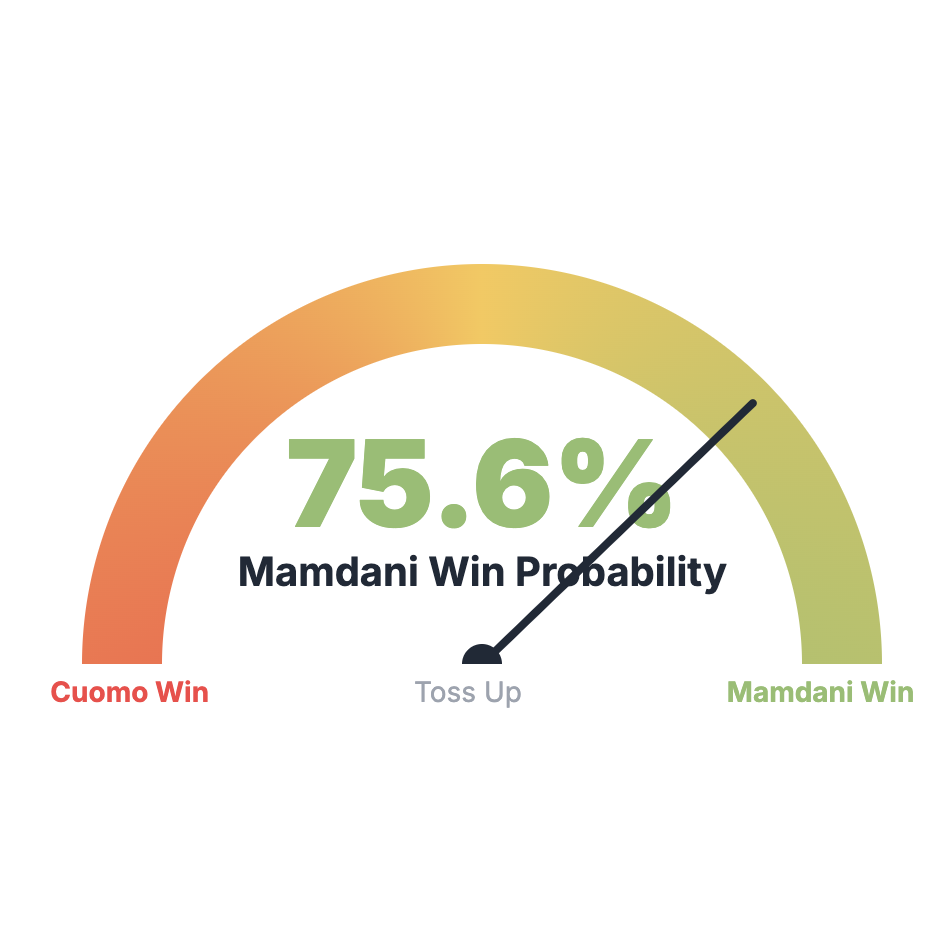
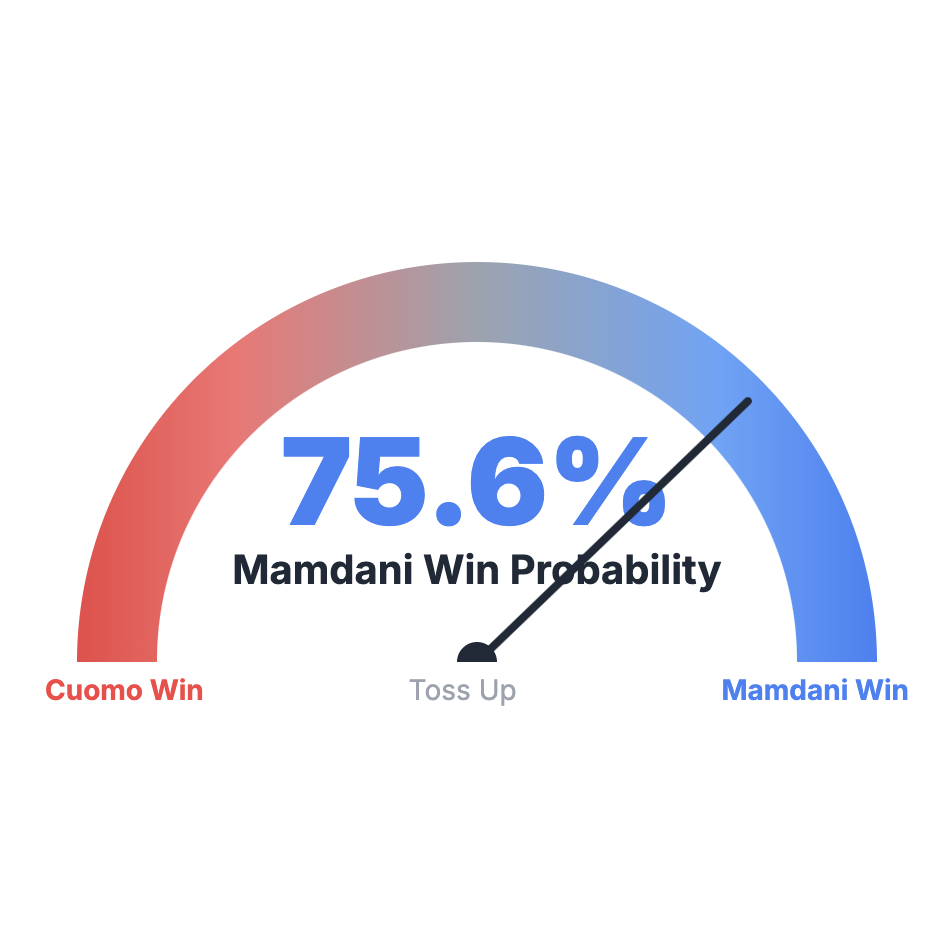
Fix colors

Changed region(s): [[0.0305, 0.2747, 0.9768, 0.7632]]

diff --git a/index.html b/index.html
@@ -93,7 +93,7 @@
             max-height: 350px;
         }
         .gradient-text {
-            background: linear-gradient(to right, #F94144, #F3722C);
+            background: linear-gradient(to right, #2563eb, #3b82f6, #60a5fa);
             -webkit-background-clip: text;
             -webkit-text-fill-color: transparent;
             background-clip: text;
@@ -116,7 +116,7 @@
         .gauge-inner {
             width: 100%;
             height: 100%;
-            background: conic-gradient(from 180deg, #F94144 0%, #F9C74F 50%, #90BE6D 100%);
+            background: linear-gradient(to right, #ef4444 0%, #f87171 20%, #9ca3af 50%, #60a5fa 80%, #3b82f6 100%);
         }
         .gauge-cover {
             width: 320px;
@@ -190,7 +190,7 @@
                     <div class="gauge mx-auto">
                         <div class="gauge-inner"></div>
                         <div class="gauge-cover" style="background-color: #ffffff;">
-                            <p class="text-6xl font-black text-[#90BE6D] pt-10">75.6%</p>
+                            <p class="text-6xl font-black text-[#3b82f6] pt-10">75.6%</p>
                             <p class="text-xl font-bold text-gray-800">Mamdani Win Probability</p>
                         </div>
                         <div id="gauge-needle" class="gauge-needle"></div>
@@ -199,13 +199,13 @@
                     <div class="w-full max-w-lg flex justify-between px-2 text-sm text-gray-500 mt-1">
                         <span class="text-left text-[#F94144] font-bold">Cuomo Win</span>
                         <span class="text-gray-400">Toss Up</span>
-                        <span class="text-right text-[#90BE6D] font-bold">Mamdani Win</span>
+                        <span class="text-right text-[#3b82f6] font-bold">Mamdani Win</span>
                     </div>
                 </div>
 
                 <div class="text-center md:text-left">
                     <h3 class="text-2xl font-bold mb-4">Projected Result</h3>
-                    <p class="text-xl font-bold">Final Vote Share: <span class="text-green-600">Mamdani 52.4%</span> vs <span class="text-red-600">Cuomo 47.6%</span></p>
+                    <p class="text-xl font-bold">Final Vote Share: <span class="text-blue-600">Mamdani 52.4%</span> vs <span class="text-red-600">Cuomo 47.6%</span></p>
                     <p class="text-md text-gray-600 mt-2">Projected Victory Margin: <span class="font-bold text-gray-800">4.9% (~39,619 votes)</span></p>
                     <hr class="my-4">
                     <p class="text-md text-gray-600">95% Confidence Interval:</p>
@@ -223,19 +223,19 @@
                 <div class="grid grid-cols-1 md:grid-cols-2 lg:grid-cols-2 gap-6 mt-6">
 
                     <!-- Early Vote & Youth Surge -->
-                    <div class="bg-green-50 p-6 rounded-xl border border-green-200 flex flex-col">
+                    <div class="bg-blue-50 p-6 rounded-xl border border-blue-200 flex flex-col">
                         <div class="flex items-center mb-3">
                             <div class="text-4xl mr-4">🗳</div>
-                            <h3 class="font-bold text-xl text-green-800">Early Vote & Youth Surge</h3>
+                            <h3 class="font-bold text-xl text-blue-800">Early Vote & Youth Surge</h3>
                         </div>
-                        <p class="text-green-700 mb-4">Mamdani banked a formidable lead in early voting, supercharged by an unprecedented youth turnout.</p>
+                        <p class="text-blue-700 mb-4">Mamdani banked a formidable lead in early voting, supercharged by an unprecedented youth turnout.</p>
                         <div class="text-center bg-white p-4 rounded-lg flex-grow flex flex-col justify-center">
-                            <p class="text-5xl font-extrabold text-green-600">+39,796</p>
+                            <p class="text-5xl font-extrabold text-blue-600">+39,796</p>
                             <p class="font-semibold text-gray-700">Mamdani's Net Vote Advantage</p>
                             <p class="text-sm text-gray-500 mt-2">from 385,327 total early votes</p>
                         </div>
                         <div class="text-center bg-white p-4 rounded-lg mt-3 flex-grow flex flex-col justify-center">
-                            <p class="text-5xl font-extrabold text-green-600">2.9x</p>
+                            <p class="text-5xl font-extrabold text-blue-600">2.9x</p>
                             <p class="font-semibold text-gray-700">Youth Vote vs. Historical Rate</p>
                             <p class="text-sm text-gray-500 mt-2">A key indicator of grassroots enthusiasm</p>
                         </div>
@@ -315,7 +315,7 @@
                             <div class="flex items-center">
                                 <span class="font-bold w-24">Mamdani</span>
                                 <div class="w-full candidate-bar h-5">
-                                    <div class="bg-[#90BE6D] candidate-bar-fill" style="width: 35.6%;">35.6%</div>
+                                    <div class="bg-[#3b82f6] candidate-bar-fill" style="width: 35.6%;">35.6%</div>
                                 </div>
                                 <span class="text-right w-24 font-semibold text-sm">289,876</span>
                             </div>
@@ -357,14 +357,14 @@
                                 <p class="text-sm text-gray-600">Her votes redistribute</p>
                                 <div class="mt-2 text-left space-y-1 text-sm">
                                     <p><span class="font-bold text-[#F94144]">+29,313 votes</span> → Cuomo</p>
-                                    <p><span class="font-bold text-[#90BE6D]">+22,799 votes</span> → Mamdani</p>
+                                    <p><span class="font-bold text-[#3b82f6]">+22,799 votes</span> → Mamdani</p>
                                 </div>
                             </div>
                              <div>
                                 <h4 class="font-semibold">❌ Others Eliminated</h4>
                                 <p class="text-sm text-gray-600">Minor candidates drop out</p>
                                 <div class="mt-2 text-left space-y-1 text-sm">
-                                    <p><span class="font-bold text-[#90BE6D]">+48,855 votes</span> → Mamdani</p>
+                                    <p><span class="font-bold text-[#3b82f6]">+48,855 votes</span> → Mamdani</p>
                                     <p><span class="font-bold text-[#F94144]">+24,427 votes</span> → Cuomo</p>
                                 </div>
                             </div>
@@ -382,14 +382,14 @@
                     <div class="flow-arrow">↓</div>
 
                     <!-- Final Round -->
-                    <div class="w-full max-w-3xl bg-green-50 p-6 rounded-2xl border-2 border-green-300 shadow-lg">
-                        <h3 class="font-bold text-xl text-center mb-2 text-green-800">Final Round: The Progressive Transfer</h3>
+                    <div class="w-full max-w-3xl bg-blue-50 p-6 rounded-2xl border-2 border-blue-300 shadow-lg">
+                        <h3 class="font-bold text-xl text-center mb-2 text-blue-800">Final Round: The Progressive Transfer</h3>
                         <p class="text-center text-gray-600 mb-6">❌ Lander is eliminated. The cross-endorsement becomes decisive, with 75% of his voters ranking Mamdani second.</p>
                         
                         <div class="bg-white p-4 rounded-lg text-center mb-6">
                             <p class="font-bold text-yellow-800">Lander's 97,710 Votes Redistribute:</p>
                             <div class="flex justify-center items-center space-x-6 mt-2">
-                                <div class="text-green-700">
+                                <div class="text-blue-700">
                                     <p class="font-black text-3xl">73,283</p>
                                     <p class="font-semibold text-sm">(75%) → Mamdani</p>
                                 </div>
@@ -408,9 +408,9 @@
                         <div class="grid grid-cols-1 md:grid-cols-2 gap-6">
                              <div class="text-center">
                                 <p class="font-bold text-2xl">Zohran Mamdani</p>
-                                <p class="text-6xl font-black my-2 text-[#90BE6D]">52.4%</p>
+                                <p class="text-6xl font-black my-2 text-[#3b82f6]">52.4%</p>
                                 <div class="w-full bg-gray-200 rounded-full h-4 my-2">
-                                  <div class="bg-[#90BE6D] h-4 rounded-full" style="width: 52.4%"></div>
+                                  <div class="bg-[#3b82f6] h-4 rounded-full" style="width: 52.4%"></div>
                                 </div>
                                 <p class="font-semibold text-gray-800">484,341 Votes</p>
                             </div>
@@ -452,14 +452,14 @@
                     </div>
                 </div>
                 <div class="bg-white rounded-2xl shadow-lg p-8 flex flex-col items-center">
-                    <div class="w-32 h-32 rounded-full overflow-hidden mb-4 border-4 border-green-200">
+                    <div class="w-32 h-32 rounded-full overflow-hidden mb-4 border-4 border-blue-200">
                         <img src="https://upload.wikimedia.org/wikipedia/commons/thumb/d/d6/Zohran_Mamdani_05.25.25.jpg/500px-Zohran_Mamdani_05.25.25.jpg" alt="Zohran Mamdani" class="w-full h-full object-cover object-top" style="transform: scale(1.2);" onerror="this.onerror=null;this.src='https://placehold.co/128x128/dcfce7/90be6d?text=ZM';">
                     </div>
                     <h3 class="text-2xl font-bold text-center mb-4">Zohran Mamdani: The Grassroots Movement</h3>
                     <p class="text-center text-gray-600 mb-6 grow">Mamdani's campaign is a people-powered operation built on small-dollar donors and volunteers.</p>
                     <div class="text-center">
                         <p class="text-gray-500 text-lg">Mobilized Volunteers</p>
-                        <p class="font-extrabold text-7xl text-[#90BE6D] my-2">46,000</p>
+                        <p class="font-extrabold text-7xl text-[#3b82f6] my-2">46,000</p>
                         <p class="text-gray-600">This massive ground operation has knocked on over 1 million doors across the city.</p>
                     </div>
                      <div class="mt-8">
@@ -488,13 +488,13 @@
                 <div class="bg-white rounded-2xl shadow-lg p-6 flex flex-col justify-center items-center text-center">
                     <div class="text-5xl mb-3">📈</div>
                     <h3 class="text-xl font-bold mb-2">Mamdani's Momentum</h3>
-                    <p class="text-6xl font-extrabold text-[#90BE6D]">+14 pts</p>
+                    <p class="text-6xl font-extrabold text-[#3b82f6]">+14 pts</p>
                     <p class="text-md text-gray-600 mt-2">Mamdani's support surged from 18% to 32% in the final polls, while Cuomo's remained stagnant.</p>
                 </div>
                 <div class="bg-white rounded-2xl shadow-lg p-6 flex flex-col justify-center items-center text-center">
                      <div class="text-5xl mb-3">🗳</div>
                     <h3 class="text-xl font-bold mb-2">Banked Vote Lead</h3>
-                    <p class="text-6xl font-extrabold text-[#90BE6D]">+39,796</p>
+                    <p class="text-6xl font-extrabold text-[#3b82f6]">+39,796</p>
                     <p class="text-md text-gray-600 mt-2">Mamdani has a massive early vote lead among the 385,327 ballots already cast.</p>
                 </div>
             </div>
@@ -573,10 +573,11 @@
             orangeMid: '#F8961E',
             yellow: '#F9C74F',
             green: '#90BE6D',
+            blue: '#3b82f6',
             gray: '#9CA3AF'
         };
         const CUOMO_COLOR = PALETTE.red;
-        const MAMDANI_COLOR = PALETTE.green;
+        const MAMDANI_COLOR = '#3b82f6'; // Blue for Democratic primary
         const LANDER_COLOR = PALETTE.yellow;
         const ADAMS_COLOR = PALETTE.orangeDark;
         const UNDECIDED_COLOR = PALETTE.gray;
@@ -635,7 +636,7 @@
                     label: 'Early Votes Cast',
                     data: [142735, 122642, 75778, 30816, 12367],
                     backgroundColor: [
-                        PALETTE.green,
+                        MAMDANI_COLOR,
                         PALETTE.yellow,
                         PALETTE.orangeMid,
                         PALETTE.orangeDark,
